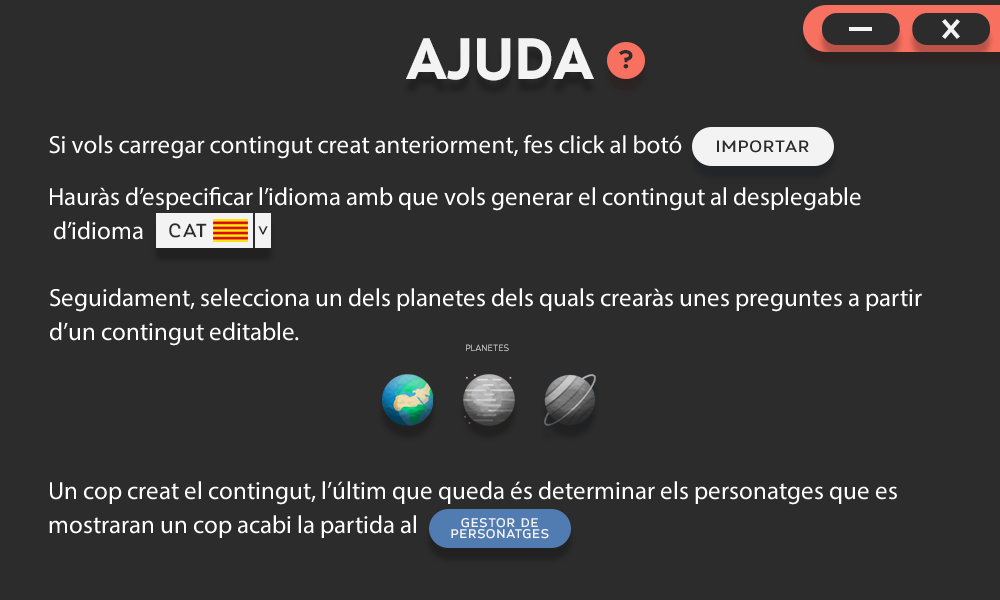
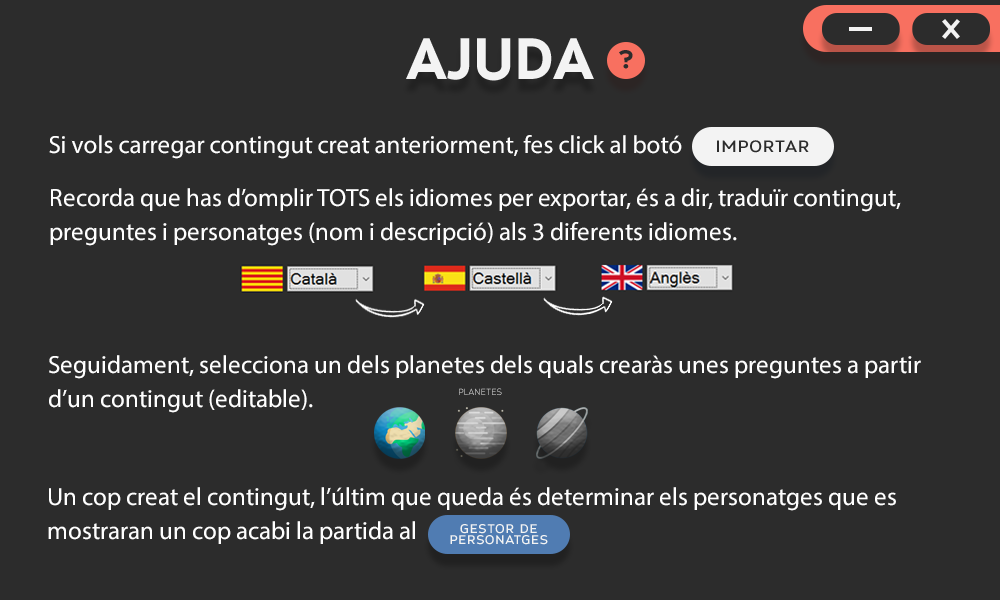
pantalla ayuda inicio

diff --git a/App Escritorio/GestorJuego/SerializarJSON/FormMenuPrincipal.Designer.cs b/App Escritorio/GestorJuego/SerializarJSON/FormMenuPrincipal.Designer.cs
@@ -98,7 +98,7 @@
             // 
             // comboBoxIdioma
             // 
-            this.comboBoxIdioma.BackColor = System.Drawing.Color.White;
+            this.comboBoxIdioma.BackColor = System.Drawing.SystemColors.ControlLightLight;
             this.comboBoxIdioma.Cursor = System.Windows.Forms.Cursors.Hand;
             this.comboBoxIdioma.DropDownStyle = System.Windows.Forms.ComboBoxStyle.DropDownList;
             this.comboBoxIdioma.Font = new System.Drawing.Font("Microsoft Sans Serif", 15.75F, System.Drawing.FontStyle.Regular, System.Drawing.GraphicsUnit.Point, ((byte)(0)));
@@ -106,8 +106,8 @@
             this.comboBoxIdioma.Items.AddRange(new object[] {
             "Català",
             "Castellà",
-            "Anglés"});
-            this.comboBoxIdioma.Location = new System.Drawing.Point(189, 112);
+            "Anglès"});
+            this.comboBoxIdioma.Location = new System.Drawing.Point(198, 113);
             this.comboBoxIdioma.Name = "comboBoxIdioma";
             this.comboBoxIdioma.Size = new System.Drawing.Size(113, 33);
             this.comboBoxIdioma.TabIndex = 7;
@@ -117,7 +117,7 @@
             // 
             this.pictureBoxBandera.BackColor = System.Drawing.Color.Transparent;
             this.pictureBoxBandera.Image = global::SerializarJSON.Properties.Resources.esp;
-            this.pictureBoxBandera.Location = new System.Drawing.Point(129, 112);
+            this.pictureBoxBandera.Location = new System.Drawing.Point(138, 113);
             this.pictureBoxBandera.Name = "pictureBoxBandera";
             this.pictureBoxBandera.Size = new System.Drawing.Size(54, 33);
             this.pictureBoxBandera.SizeMode = System.Windows.Forms.PictureBoxSizeMode.StretchImage;
